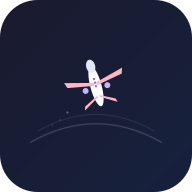
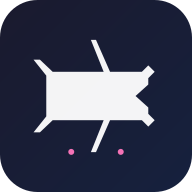
🛫 更新飞机图标 + 修复 PWA 路径

diff --git a/docs/index.html b/docs/index.html
@@ -9,7 +9,7 @@
 <meta name="apple-mobile-web-app-title" content="空运工作台">
 <meta name="mobile-web-app-capable" content="yes">
 <meta name="theme-color" content="#1a1a2e">
-<link rel="manifest" href="/air-export-manifest.json">
+<link rel="manifest" href="./air-export-manifest.json">
 <style>
 *{margin:0;padding:0;box-sizing:border-box}
 body{font-family:-apple-system,'Microsoft YaHei',sans-serif;background:#f5f6f8;color:#2c3e50;min-height:100vh}
@@ -1861,7 +1861,7 @@ setInterval(()=>{ renderAll(); checkReminder(); }, 30*1000);
 
 // 📱 注册 Service Worker（PWA 离线支持）
 if('serviceWorker' in navigator){
-  navigator.serviceWorker.register('/sw.js').catch(()=>{});
+  navigator.serviceWorker.register('./sw.js').catch(()=>{});
 }
 
 </script>